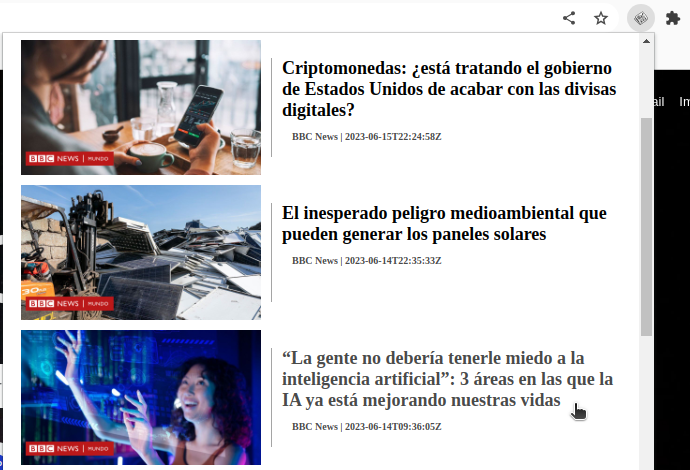
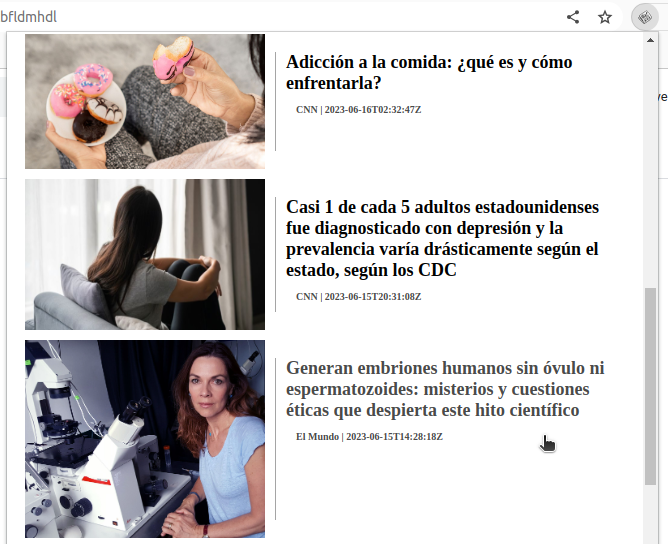
redireccion

diff --git a/news_extension/script.js b/news_extension/script.js
@@ -1,5 +1,5 @@
 const api_key = "<mi_api_key>";
-const url = `https://newsapi.org/v2/everything?q=tecnología&domains=bbc.com&language=es&sortBy=publishedAt&apiKey=${api_key}`
+const url = `https://newsapi.org/v2/everything?q=ciencia&sources=cnn,el-mundo&language=es&sortBy=publishedAt&apiKey=${api_key}`
 
 async function getNews() {
 
@@ -37,7 +37,7 @@ function appendNew(article){
     
     // Evento: redirección a la página del titular
     text.onclick = function() {
-        window.location.href = article.url;
+        chrome.tabs.create({ url: article.url });
     };
 
     div.appendChild(img)
